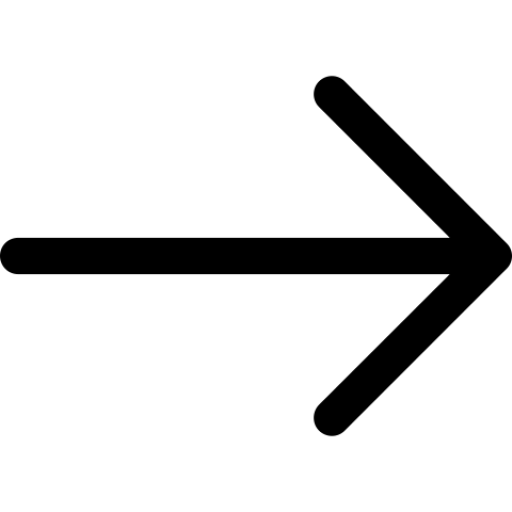
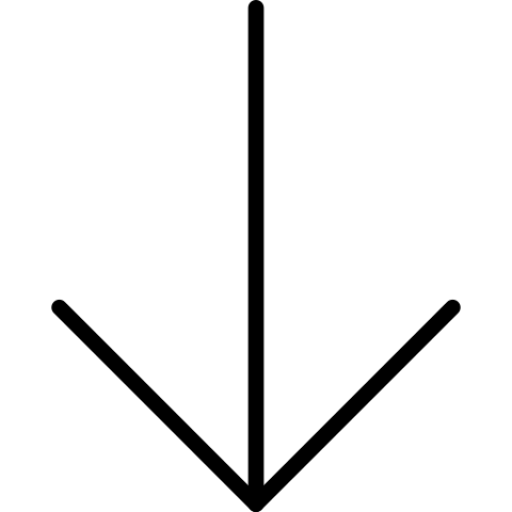
New arrow

Changed region(s): [[0.0, 0.0, 1.0, 1.0]]

diff --git a/script.js b/script.js
@@ -1,9 +1,9 @@
 //if user scrolled to bottom do something
 window.onscroll = function() {
     if( (window.innerHeight + window.scrollY) >= document.body.offsetHeight - 300){
-        document.querySelector('.next-section img').style.transform = "rotate(-90deg)";
+        document.querySelector('.next-section img').style.transform = "rotate(180deg)";
     } else {
-        document.querySelector('.next-section img').style.transform = "rotate(90deg)";
+        document.querySelector('.next-section img').style.transform = "rotate(0deg)";
     }
 };
 

diff --git a/styles.css b/styles.css
@@ -97,7 +97,7 @@ section#workComm {
      z-index: 100;
  }
 #main-container .navbar a img {
-    width: 65px;
+    width: 50px;
     height: auto;
 }
 #main-container .main-navbar__list ul {
@@ -155,7 +155,7 @@ section.popup h2 {
  **********************/
 .next-section img {
     width: 65px;
-    transform: rotate(90deg);
+    transform: rotate(0deg);
     float: right;
     position: fixed;
     bottom: 20px;
